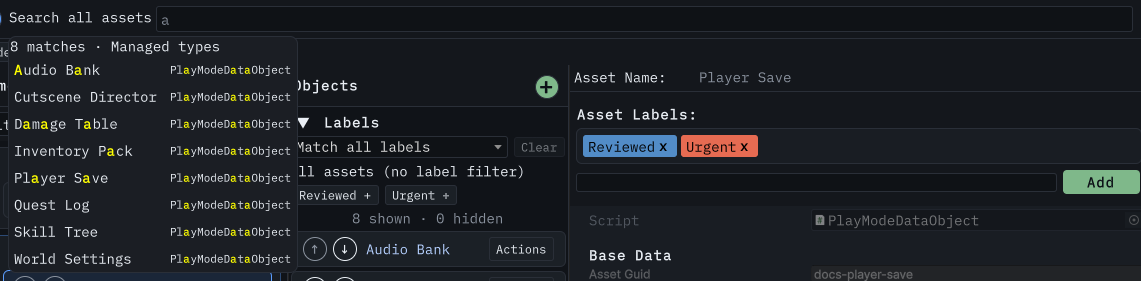
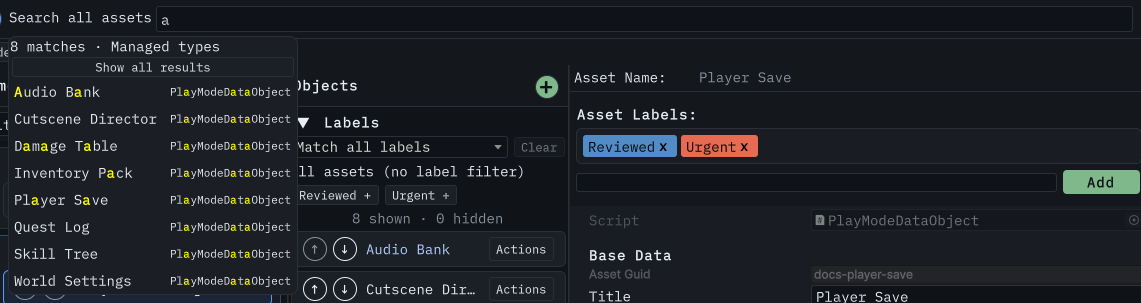
Show quick and complete search workflows in the guide
Capture the production window at 9a20d77. Quick results expose Show all; the full view shows 42 real owned assets, duplicate names and incomplete indexing. All GUIDs, keyboard/pointer navigation, Back, Escape, query preservation, selection and focus across updates pass. The 360x480 view realizes eight rows; lossless WebP pixels match the reviewed PNGs. Refs #311.

diff --git a/docs/search-and-filter.md b/docs/search-and-filter.md
@@ -47,6 +47,9 @@ Matching terms are highlighted in the results. The highlight deepens while the p
 - Queries run in short steps. **Searching available records…** shows a scan in progress. With no matches, the message distinguishes an incomplete index from a complete search.
 - Up and Down move the highlight and wrap around. Enter or Return opens the highlighted result. Escape closes the popover and keeps your text.
 
+![All available search matches in a virtualized list, including duplicate names with different types](images/search-all-results.webp) _Full results over 42 real fixture assets. The
+status distinguishes available matches from a complete total._
+
 ## Type filter
 
 The **Filter types** field above the namespace list narrows the type rows by display name, without case sensitivity. Namespace headers are not filtered, so you keep the structure
